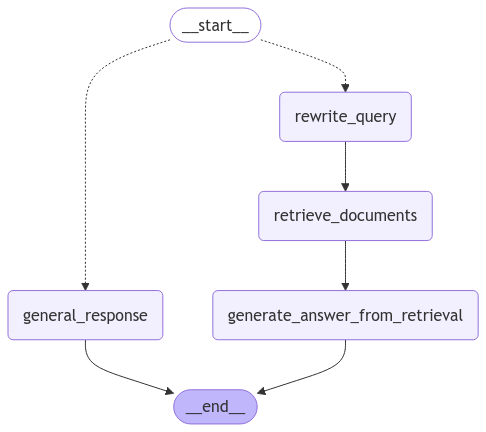
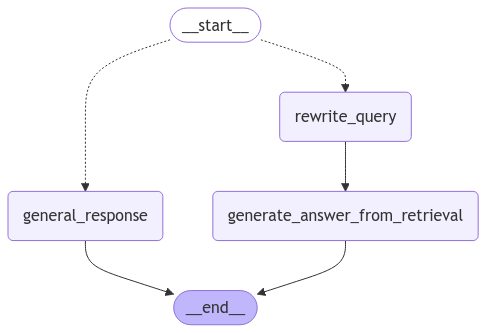
tool update

diff --git a/agent_resources/agents/rag_agent/nodes.py b/agent_resources/agents/rag_agent/nodes.py
@@ -2,7 +2,7 @@ from typing import Annotated, List, TypedDict
 from langchain.prompts import PromptTemplate
 from langchain_openai import ChatOpenAI
 from langchain.schema import HumanMessage, AIMessage
-from langchain_core.documents import Document
+from langchain.tools import BaseTool
 from langgraph.graph.message import add_messages
 from dotenv import load_dotenv
 load_dotenv()
@@ -94,73 +94,16 @@ def rewrite_query(state: State) -> State:
 
     return state
 
-def retrieve_documents(revised_query: str) -> List[Document]:
-    """
-    Retrieves mock documents related to chemistry, based on the revised query.
-    """
-    print(f"Performing retrieval based on this query:\n\n{revised_query}\n\n")
 
-    # Mock documents related to chemistry
-    return [
-        Document(
-            page_content=(
-                "Water is often referred to as the universal solvent due to its ability to dissolve more substances "
-                "than any other liquid. This is because water molecules are polar, with a partial negative charge on the "
-                "oxygen atom and partial positive charges on the hydrogen atoms. This polarity allows water to interact "
-                "with and stabilize ions and polar molecules, making it crucial for chemical reactions in biological and "
-                "industrial systems."
-            ),
-            metadata={"source": "https://chemistryfacts.com/water-solvent"}
-        ),
-        Document(
-            page_content=(
-                "The periodic table of elements is one of the most significant achievements in science, organizing "
-                "all known chemical elements by their atomic number, electron configuration, and recurring chemical properties. "
-                "It allows scientists to predict the behavior of elements and their compounds, serving as a framework for "
-                "understanding chemical reactivity and trends, such as electronegativity and ionization energy."
-            ),
-            metadata={"source": "https://chemistryfacts.com/periodic-table"}
-        ),
-        Document(
-            page_content=(
-                "Acids and bases play a vital role in chemistry and everyday life. Acids, like hydrochloric acid (HCl), "
-                "release hydrogen ions (H+) in solution, while bases, such as sodium hydroxide (NaOH), release hydroxide ions (OH-). "
-                "The pH scale, ranging from 0 to 14, measures the acidity or alkalinity of a solution, with 7 being neutral. "
-                "These reactions are critical in processes like digestion, industrial manufacturing, and environmental regulation."
-            ),
-            metadata={"source": "https://chemistryfacts.com/acids-and-bases"}
-        ),
-        Document(
-            page_content=(
-                "Catalysts are substances that increase the rate of a chemical reaction without being consumed in the process. "
-                "They work by lowering the activation energy required for the reaction to proceed, allowing it to occur more "
-                "rapidly. Catalysts are used in a wide range of applications, from the synthesis of ammonia in the Haber process "
-                "to catalytic converters in vehicles that reduce harmful emissions."
-            ),
-            metadata={"source": "https://chemistryfacts.com/catalysts"}
-        ),
-        Document(
-            page_content=(
-                "Carbon is a versatile element that forms the backbone of organic chemistry. With its ability to form four covalent bonds, "
-                "carbon can create complex structures such as chains, rings, and frameworks found in biomolecules like DNA and proteins. "
-                "It also appears in inorganic compounds like carbon dioxide (CO2), playing a key role in processes such as photosynthesis "
-                "and the carbon cycle."
-            ),
-            metadata={"source": "https://chemistryfacts.com/carbon"}
-        )
-    ]
-
-
-
-def generate_answer_from_retrieval(state: State) -> State:
+def generate_answer_from_retrieval(state: State, retrieve_documents_tool: BaseTool) -> State:
     """
     Generates a final answer using the LLM based on retrieved documents and the revised query.
     """
     # Extract the revised query
     revised_query = state["revised_query"]
 
-    # Retrieve documents using the helper function
-    retrieved_documents = retrieve_documents(revised_query)
+    # Retrieve documents using the tool
+    retrieved_documents = retrieve_documents_tool.run(revised_query)
 
     # Combine the content of retrieved documents into a single string
     document_context = "\n".join(

diff --git a/agent_resources/tools/retrieve_documents.py b/agent_resources/tools/retrieve_documents.py
@@ -1,0 +1,62 @@
+from langchain.tools import BaseTool
+from langchain_core.documents import Document
+
+class RetrieveDocuments(BaseTool):
+    """
+    A tool to retrieve documents based on a query.
+    Simulates a RAG pipeline and returns mock documents related to chemistry.
+    """
+
+    name: str = "retrieve_documents"
+    description: str = "Retrieves relevant documents for a given query."
+
+    def _run(self, query: str) -> list[Document]:
+        """
+        Perform the document retrieval.
+        """
+        print(f"Performing retrieval based on this query:\n\n{query}\n\n")
+
+        documents = [
+            Document(
+                page_content=(
+                    "Water is often referred to as the universal solvent due to its "
+                    "ability to dissolve more substances than any other liquid."
+                ),
+                metadata={"source": "https://chemistryfacts.com/water-solvent"},
+            ),
+            Document(
+                page_content=(
+                    "The periodic table organizes all known chemical elements by "
+                    "their atomic number, electron configuration, and recurring properties."
+                ),
+                metadata={"source": "https://chemistryfacts.com/periodic-table"},
+            ),
+            Document(
+                page_content=(
+                    "Acids release hydrogen ions (H+) in solution, while bases release "
+                    "hydroxide ions (OH−). The pH scale measures acidity or alkalinity."
+                ),
+                metadata={"source": "https://chemistryfacts.com/acids-and-bases"},
+            ),
+            Document(
+                page_content=(
+                    "Catalysts increase the rate of a chemical reaction by lowering the "
+                    "activation energy required for the reaction to proceed."
+                ),
+                metadata={"source": "https://chemistryfacts.com/catalysts"},
+            ),
+            Document(
+                page_content=(
+                    "Carbon is a versatile element that forms the backbone of organic chemistry, "
+                    "found in compounds like DNA and CO2."
+                ),
+                metadata={"source": "https://chemistryfacts.com/carbon"},
+            ),
+        ]
+        return documents
+
+    async def _arun(self, query: str) -> list[Document]:
+        """
+        Asynchronous version of document retrieval.
+        """
+        return self._run(query)

diff --git a/agent_resources/agents/rag_agent/rag_agent.py b/agent_resources/agents/rag_agent/rag_agent.py
@@ -3,17 +3,20 @@ from langgraph.graph import StateGraph, END, START
 from langchain_core.messages import BaseMessage, AIMessage
 from .nodes import State, general_response, check_query_type, rewrite_query, generate_answer_from_retrieval
 from agent_resources.base_agent import Agent
+from agent_resources.tools.tool_registry import ToolRegistry
 
 logger = logging.getLogger(__name__)
 
 class RAGAgent(Agent): 
 
     def __init__(self, llm, memory): 
+        self.tools = {
+            "retrieve_documents": ToolRegistry.get_tool('retrieve_documents'),
+        }
         self.llm = llm 
         self.memory = memory
         self.agent = self.compile_graph()
-        self.chat_histories = {}  # A dictionary to track chat histories by session ID
-
+        
     def compile_graph(self):
         """
         Compile the graph for the RAG pipeline with all necessary nodes and edges.
@@ -24,7 +27,10 @@ class RAGAgent(Agent):
         # Add nodes to the graph
         workflow.add_node("general_response", general_response)
         workflow.add_node("rewrite_query", rewrite_query)
-        workflow.add_node("generate_answer_from_retrieval", generate_answer_from_retrieval)
+        workflow.add_node(
+            "generate_answer_from_retrieval", 
+            lambda state: generate_answer_from_retrieval(state, self.tools["retrieve_documents"])
+        )
 
         # Set conditional entry point to decide between RAG or general response
         workflow.add_conditional_edges(

diff --git a/agent_resources/tools/tool_registry.py b/agent_resources/tools/tool_registry.py
@@ -1,7 +1,7 @@
 from typing import Dict, Type, List
 from langchain.tools import BaseTool
 from langchain_community.tools.tavily_search import TavilySearchResults
-# from agents.tools.rag_tool import RAGTool
+from .retrieve_documents import RetrieveDocuments  
 
 
 class ToolRegistry:
@@ -9,9 +9,9 @@ class ToolRegistry:
     ToolRegistry manages the registration and retrieval of tools.
     """
 
-    tool_registry: Dict[str, Type[BaseTool]] = {
-        'tavily_search': TavilySearchResults,
-        # 'rag_tool': RAGTool,
+    tool_registry: Dict[str, BaseTool] = {
+        'tavily_search': TavilySearchResults(),
+        'retrieve_documents': RetrieveDocuments(),  
     }
 
     @classmethod
@@ -19,10 +19,11 @@ class ToolRegistry:
         """
         Retrieve a single tool by name.
         """
-        tool_class = cls.tool_registry.get(tool_name)
-        if tool_class is None:
+        tool = cls.tool_registry.get(tool_name)
+        if tool is None:
             raise ValueError(f"Unknown tool: {tool_name}")
-        return tool_class(**kwargs)
+        # If additional kwargs are provided, they are used to reinitialize the tool
+        return tool if not kwargs else tool.__class__(**kwargs)
 
     @classmethod
     def get_tools(cls, tool_names: List[str], **kwargs) -> List[BaseTool]:
